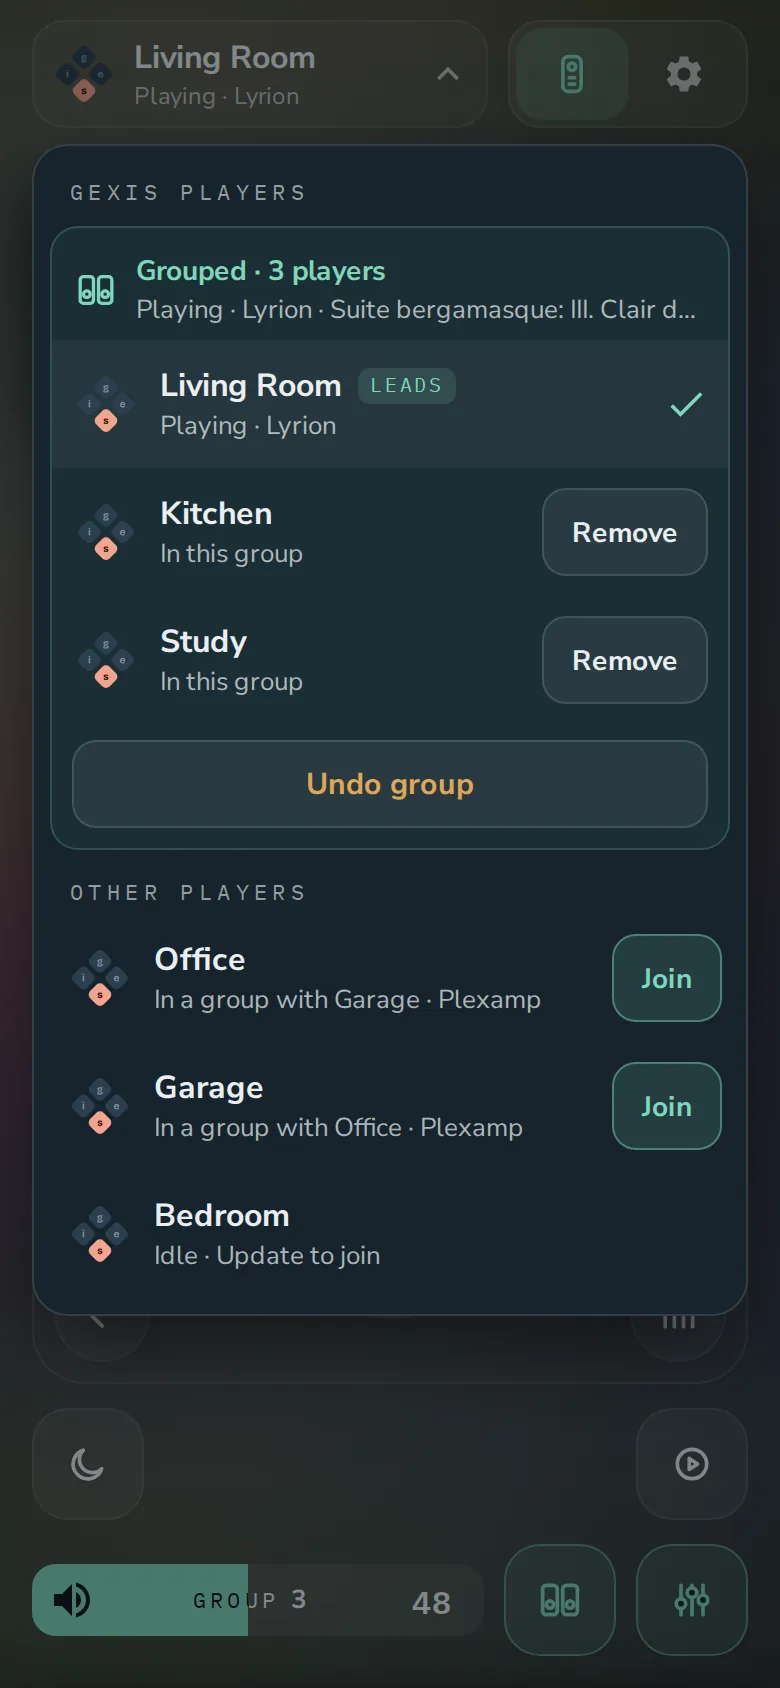
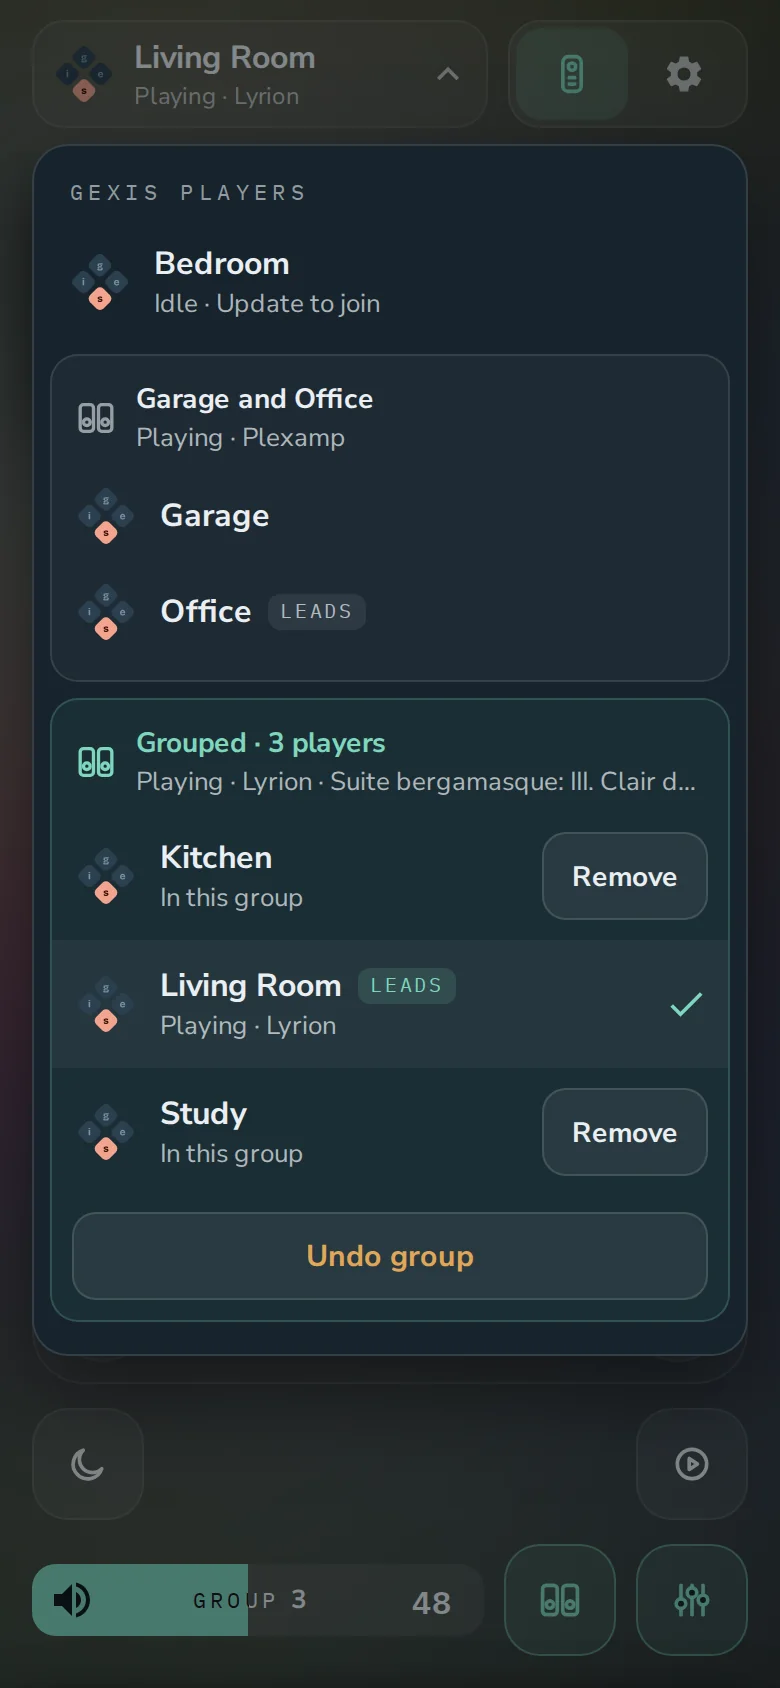
Player lists: group names in sentences alphabetical too; the manual (the order, its group picture retaken with the demo library), the technical guide and the design notes

diff --git a/ui/src/lib/group.svelte.js b/ui/src/lib/group.svelte.js
@@ -113,7 +113,7 @@ export function joinNames(names) {
  *  [text, more]. Empty when not grouped. */
 export function withText(g) {
   if (!g) return ['', ''];
-  const others = g.members.filter((m) => !m.me).map((m) => m.name);
+  const others = alphabetical(g.members).filter((m) => !m.me).map((m) => m.name);
   if (others.length <= 2) return [`with ${others.join(', ')}`, ''];
   return [`with ${others.slice(0, 2).join(', ')}`, ` + ${others.length - 2}`];
 }
@@ -262,7 +262,7 @@ export function silentNote(g, panel = false) {
 /** *Undo the group?* - the body. With the leader gone there is no music to
  *  stay on it (the design's `undoBody`). */
 export function undoBody(g) {
-  const names = g.members.map((m) => m.name);
+  const names = alphabetical(g.members).map((m) => m.name);
   const leader = g.members.find((m) => m.leads)?.name ?? names[0];
   const again = `${joinNames(names)} each play on their own again.`;
   return g.silent ? again : `${again} The music stays on ${leader}.`;

diff --git a/docs/tech/core-and-state.md b/docs/tech/core-and-state.md
@@ -846,7 +846,14 @@ share's). `players.py`: `Players.watch()` (started with the core) runs
 host (`parse_browse`, this player left out by hostname) and asks each `GET
 /player/status` (2 s); `/players` answers from that, in about 10 ms where a
 search on request took 1.1 s (measured on sofapi, 2026-10-11). The phone
-remembers the last list (`localStorage`), so the button shows at once. `/player/status` is `{name, host, instance, id, screen, transport, renderer}` - the
+remembers the last list (`localStorage`), so the button shows at once.
+`/players?fresh=1`, sent when a list opens (the phone's menu, the panel's
+drawer, the bar's tray, the switcher): if what was found is older than
+`ASK_AGAIN_S` (5 s), the players already found are asked their status again,
+without a search (`Players.ask_again`), so a group made or undone elsewhere
+shows (George, 2026-11-14). The lists are in alphabetical order, a group's
+players together where its first player falls (`inOrder` and its helpers in
+`lib/group.svelte.js`). `/player/status` is `{name, host, instance, id, screen, transport, renderer}` - the
 renderer named as the source list names it; `instance` a token made at each
 core start, by which a player found under a name avahi changed after a
 conflict (`guestpi-2.local`, 2026-10-12) still leaves itself out; `id` the

diff --git a/design/IMPLEMENTED-DIFFERENTLY.md b/design/IMPLEMENTED-DIFFERENTLY.md
@@ -913,6 +913,13 @@ is silent or production differs, confirmed by George (2026-10-28):
   group has that player. Remove is not on this player's row (Leave group is)
   nor on the leader's (Undo group is). A Fixed member's mute shows only
   where its output has a control to silence.
+- **[U]** The lists of players are in alphabetical order (George,
+  2026-11-14): the phone's menu, the panel's *Add players*, the bar's band
+  and the switcher. This player sits in its place with its check, not first;
+  a group goes where its first player falls, its players alphabetical, the
+  leader tagged where it falls. The phone's *Other players* heading is gone:
+  this player no longer divides the list. The drawing put this player, or
+  its group, first, the leader first within a group.
 - **[S]** *Add players* on the panel and the bar lists the group's own
   members first, with their state and no button, as the drawing's data does.
 - **[S]** On a panel shorter than 800 (720 at 13.3"), the grouped drawer

diff --git a/docs/tech/ui.md b/docs/tech/ui.md
@@ -613,7 +613,9 @@ are NASA photographs (`assets/weather/`, credited in Credits).
 
 On a phone, `screens/remote/PhoneRemote.svelte` fills the page (ADR-0164,
 built from `design/source/21`): a player picker over `/players` (ADR-0136;
-another player opens its own page, C1) and a Remote / Settings switch, the
+another player opens its own page, C1; its menu in alphabetical order, this
+player in its place, a group where its first player falls - George,
+2026-11-14 - and `/players?fresh=1` asked on opening) and a Remote / Settings switch, the
 two pages side by side. Settings is `Settings.svelte` with
 `switcher={false}` and `flat` (its pages, choosers and the equaliser editor
 on the modals' solid `--bg-panel`, no weave or veil), mounted on its first

diff --git a/docs/manual/README.md b/docs/manual/README.md
@@ -336,6 +336,11 @@ this player, and it plays along. Its players are not joined one by one from
 outside the group; a player already in a group has no Join on another one -
 leave or undo yours first.
 
+**The order.** Every list of players is in alphabetical order, so a player
+keeps its place whichever player the list is opened on - the one you are on
+too, with its check. A group's players stay together, in alphabetical order,
+where its first player falls.
+
 ![The group on the phone](images/phone-group.webp)
 
 **What a group plays.** Music started on any player of the group plays on
